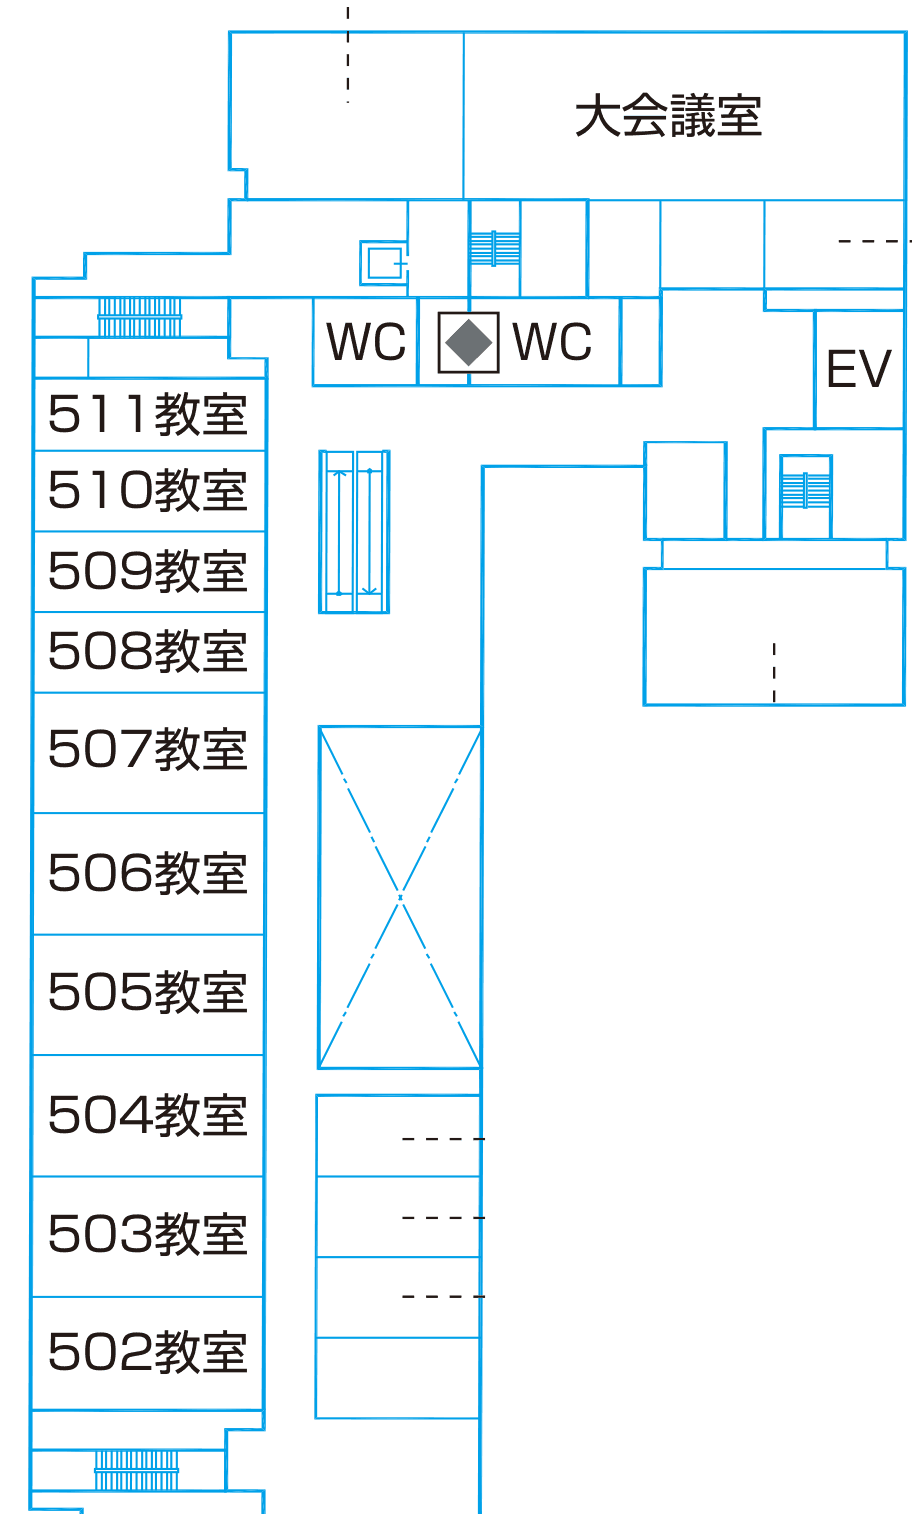
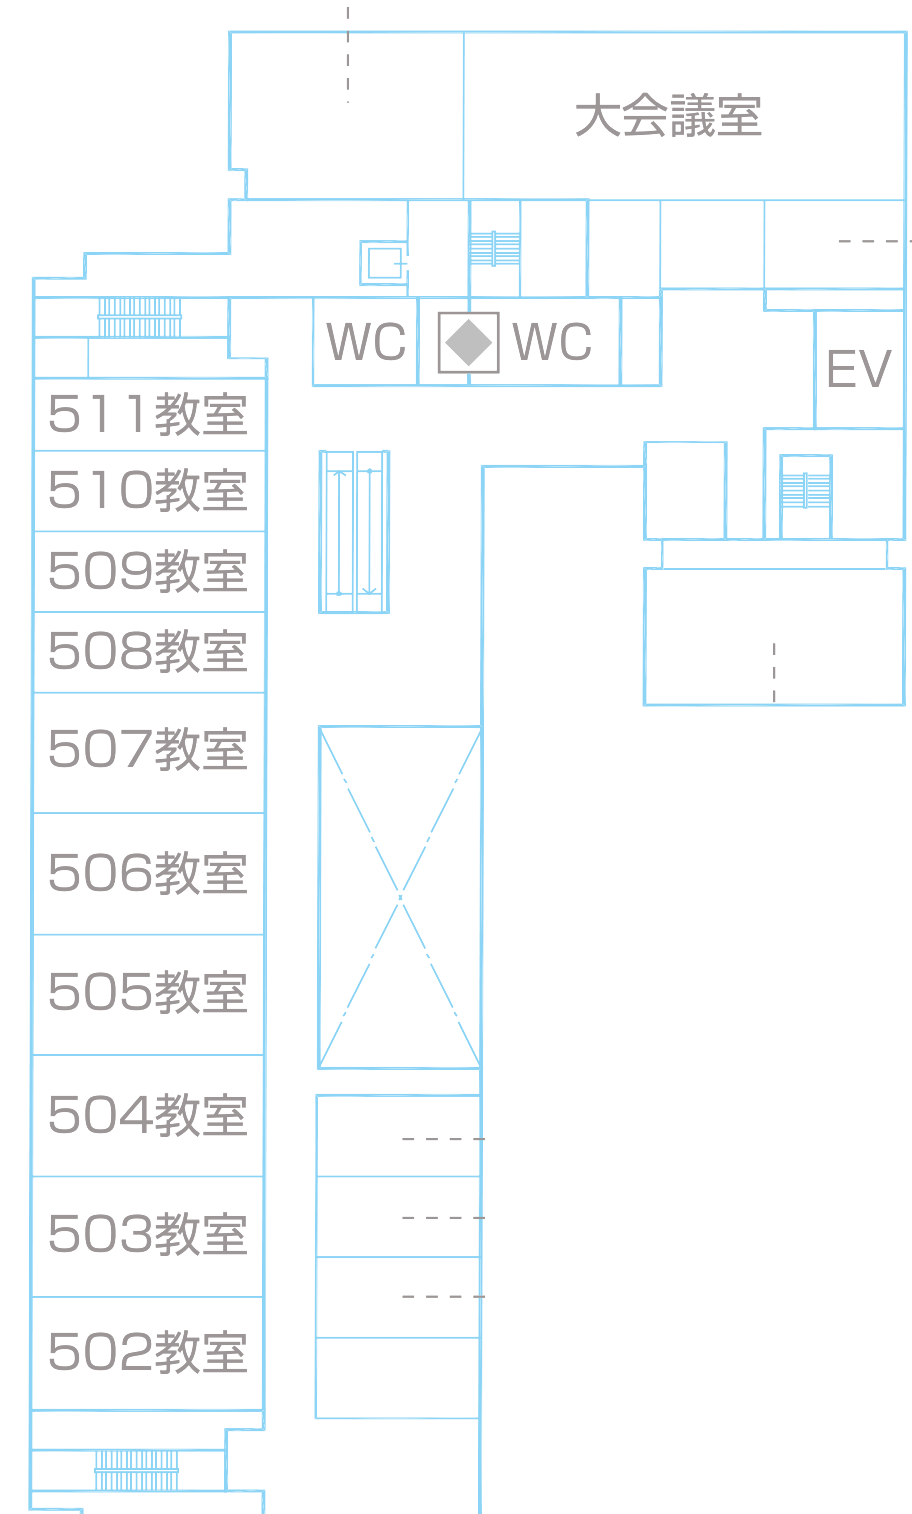
feat(assets): render floor textures as transparent blueprint ink
White paper becomes alpha, ink is lightened for the dark stage; the 3D view
shows glowing plan lines instead of opaque white cards.

diff --git a/scripts/floorplan/pipeline/emit.py b/scripts/floorplan/pipeline/emit.py
@@ -11,6 +11,21 @@ from PIL import Image
 from .common import ROOT
 
 
+def _blueprint_rgba(rgb: np.ndarray, params: dict) -> np.ndarray:
+    """White paper -> transparent, ink -> lightened color.
+
+    The 3D map renders floors on a dark stage; an opaque white plan reads as a
+    blank card. Alpha from darkness keeps only the drawn ink, and lightening
+    keeps black label text legible against the dark background.
+    """
+    lum = rgb.astype(np.float32).mean(axis=2) / 255.0
+    alpha = np.clip((1.0 - lum) * params["alphaGain"], 0.0, 1.0) * 255.0
+    lighten = params["inkLighten"]
+    out_rgb = 255.0 - (255.0 - rgb.astype(np.float32)) * (1.0 - lighten)
+    rgba = np.dstack([out_rgb, alpha]).astype(np.uint8)
+    return rgba
+
+
 def emit(
     config: dict,
     crops: dict[str, np.ndarray],
@@ -27,9 +42,7 @@ def emit(
     print("  emit")
     for floor in sorted(crops, key=int):
         name = out["texturePattern"].format(floor=floor)
-        img = Image.fromarray(crops[floor]).quantize(
-            colors=config["texture"]["quantizeColors"], dither=Image.Dither.NONE
-        )
+        img = Image.fromarray(_blueprint_rgba(crops[floor], config["texture"]))
         path = texture_dir / name
         img.save(path, optimize=True)
         print(f"    {path.relative_to(ROOT)} ({path.stat().st_size // 1024} KB, {len(walls[floor])} wall segments)")
